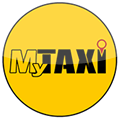
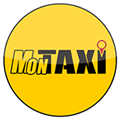
Name Change + Up to v1.2.6 + Ban System

Changed region(s): [[0.0, 0.0, 1.0, 0.975], [0.7, 0.325, 0.9, 0.5], [0.625, 0.4, 0.7, 0.425]]

diff --git a/index.html b/index.html
@@ -3,7 +3,7 @@
     <head>
     <meta http-equiv="Content-Type" content="text/html; charset=utf-8" />
     <meta http-equiv="CONTENT-LANGUAGE" content="French">
-    <title>My Taxi Pro by TaxiMedia</title>
+    <title>MonTaxi Pro by TaxiMedia</title>
     <link rel="apple-touch-icon" href="visuels/idev.favicon.png"/>
     <meta name="viewport" content="width=device-width, user-scalable=no, initial-scale=1, minimum-scale=1, maximum-scale=1"/>
     <!-- <meta name="viewport" content="width=device-width, height=device-height, user-scalable=yes, initial-scale=1"/> -->
@@ -103,6 +103,16 @@
 			{
 				$.mobile.pageContainer.pagecontainer("change", "#connect", { transition: "slide"} );
 			}
+			else {
+				$.post("https://www.mytaxiserver.com/taxioffsrv/blacklist.php", { userid: operator}, function(data) {
+					if (data.banned == 1)
+					{
+						$.mobile.pageContainer.pagecontainer("change", "#subscription", { transition: "slide"} );
+						var displayThis = '<p style="color:red;"><b>Votre compte &agrave; &eacute;t&eacute; banni pour cause d&rsquo;utilisation abusive, d&eacute;sol&eacute;.<br>Vous pouvez nous contacter pour toute r&eacute;clamation: </b></p><center><a href="mailto:info@taximedia.fr" class="ui-btn ui-btn-icon-left ui-icon-mail ui-btn-inline">Courriel</a><a href="tel:0413598022" class="ui-btn ui-btn-icon-left ui-icon-phone ui-btn-inline">T&eacute;l&eacute;phone</a></center>';
+						$("#subReturns").empty().append(displayThis);
+					}
+				}, "json");
+			}
 			if((navigator.network.connection.type == Connection.NONE) || !window.jQuery){
 				$("body").empty().append('<img src="no_network.png" width="'+screen.width+'" height="'+screen.height+'" onClick="window.location.reload()" />');
 			}
@@ -116,7 +126,7 @@
 		function onBackKeyDown() {
 			//history.back();
 			//changePage('#infos');
-			navigator.notification.alert('Veuillez ne pas quitter myTaxi Pro pendant la recheche de taxi disponibles');
+			navigator.notification.alert('Veuillez ne pas quitter monTaxi Pro pendant la recheche de taxi disponibles');
 		}
 		function onResume() {
 			if((navigator.network.connection.type == Connection.NONE) || !window.jQuery){
@@ -188,7 +198,7 @@
 			setTimeout(function(){
 				//navigator.notification.alert(result.name + " " + result.phoneNumber);
 				var number = result.phoneNumber;
-				var message = "Téléchargez l'app myTaxi Pro en suivant ce lien : http://www.taximedia.fr/stores.php?app=taxipro";
+				var message = "Téléchargez l'app monTaxi Pro en suivant ce lien : http://www.taximedia.fr/stores.php?app=taxipro";
 				var intent = ""; //leave empty for sending sms using default intent
 				var success = function () {
 					//navigator.notification.alert('Message sent successfully');
@@ -681,6 +691,16 @@
 			if($.localStorage.getItem('registeredUser') != 1)
 			{
 				$.mobile.pageContainer.pagecontainer("change", "#connect", { transition: "slide"} );
+			}
+			else {
+				$.post("https://www.mytaxiserver.com/taxioffsrv/blacklist.php", { userid: operator}, function(data) {
+					if (data.banned == 1)
+					{
+						$.mobile.pageContainer.pagecontainer("change", "#subscription", { transition: "slide"} );
+						var displayThis = '<p style="color:red;"><b>Votre compte &agrave; &eacute;t&eacute; banni pour cause d&rsquo;utilisation abusive, d&eacute;sol&eacute;.<br>Vous pouvez nous contacter pour toute r&eacute;clamation: </b></p><center><a href="mailto:info@taximedia.fr" class="ui-btn ui-btn-icon-left ui-icon-mail ui-btn-inline">Courriel</a><a href="tel:0413598022" class="ui-btn ui-btn-icon-left ui-icon-phone ui-btn-inline">T&eacute;l&eacute;phone</a></center>';
+						$("#subReturns").empty().append(displayThis);
+					}
+				}, "json");
 			}
 			locateMe();
 			$('.noAppHide').each(function () {
@@ -1529,7 +1549,7 @@
             <div class="ui-bar-b ui-corner-all ui-shadow" style="padding:1em; display:block;">
             	<center>
                 <img src="visuels/logo.png" width="60%" style="max-width:252px"/>
-                <p><b><br><br>Votre demande a &eacute;t&eacute; prise en compte, votre taxi prendra contact avec vous par t&eacute;l&eacute;phone ou sms.<br><br>Toute l&rsquo;&eacute;quipe myTaxi vous remercie.</b></p>
+                <p><b><br><br>Votre demande a &eacute;t&eacute; prise en compte, votre taxi prendra contact avec vous par t&eacute;l&eacute;phone ou sms.<br><br>Toute l&rsquo;&eacute;quipe monTaxi vous remercie.</b></p>
                 <button class="ui-btn ui-corner-all ui-shadow ui-btn-b ui-btn-icon-left ui-icon-edit" onClick="goback('index.html')">Retour</button>
                 </center>
             </div>
